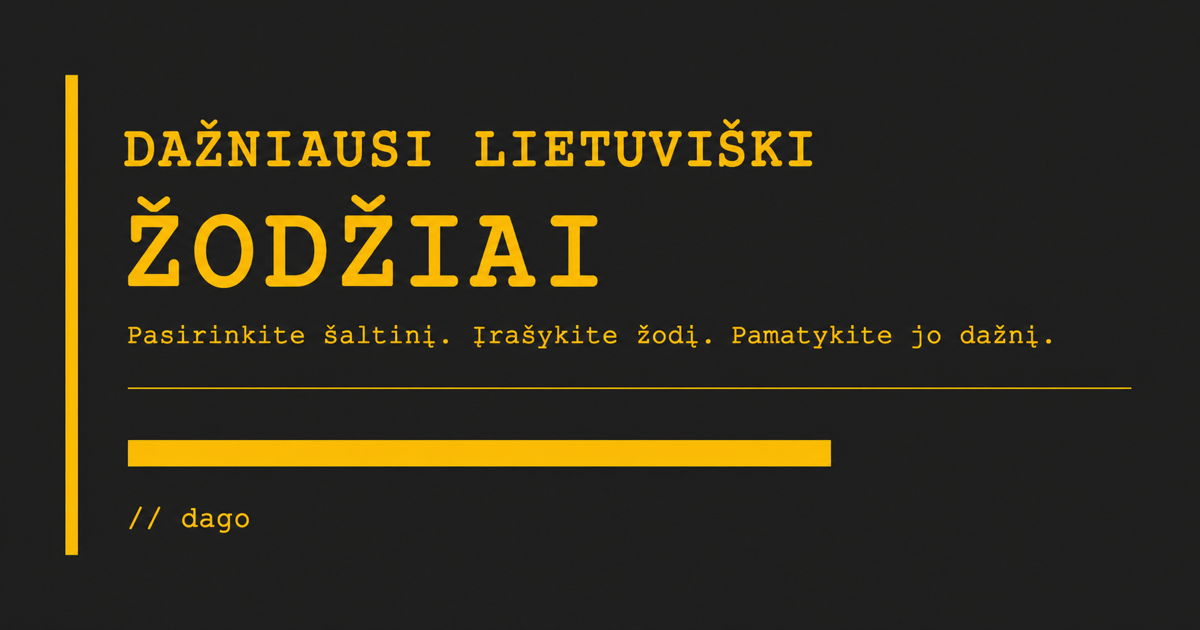
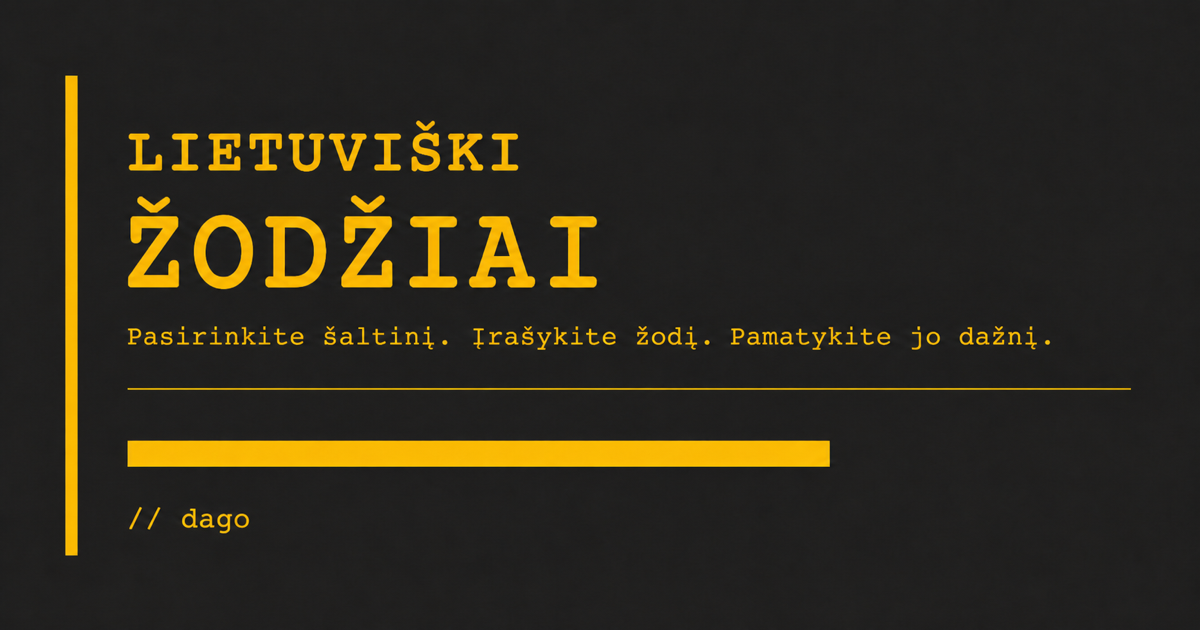
Rename project to Lietuviški žodžiai (#106)

diff --git a/src/routes/+page.svelte b/src/routes/+page.svelte
@@ -58,12 +58,12 @@
   <meta property="og:image" content={site.socialImageUrl} />
   <meta property="og:image:width" content="1200" />
   <meta property="og:image:height" content="630" />
-  <meta property="og:image:alt" content="Dažniausi lietuviški žodžiai – viešų lietuvių kalbos dažnumo sąrašų tyrinėjimas" />
+  <meta property="og:image:alt" content="Lietuviški žodžiai – viešų lietuvių kalbos dažnumo sąrašų tyrinėjimas" />
   <meta name="twitter:card" content="summary_large_image" />
   <meta name="twitter:title" content={`${site.name} · lietuvių kalbos dažnumo duomenys`} />
   <meta name="twitter:description" content={site.description} />
   <meta name="twitter:image" content={site.socialImageUrl} />
-  <meta name="twitter:image:alt" content="Dažniausi lietuviški žodžiai – viešų lietuvių kalbos dažnumo sąrašų tyrinėjimas" />
+  <meta name="twitter:image:alt" content="Lietuviški žodžiai – viešų lietuvių kalbos dažnumo sąrašų tyrinėjimas" />
 </svelte:head>
 
 <main class="home-page">

diff --git a/tests/unit/project-hygiene.test.js b/tests/unit/project-hygiene.test.js
@@ -68,7 +68,7 @@ describe('project hygiene', () => {
 			expect.objectContaining({
 				id: 'tilde-2026-parallel-and-monolingual-corpora',
 				status: 'blocked-external',
-				trackingIssue: 'https://github.com/debesyla/dazniausi-zodziai/issues/63',
+				trackingIssue: 'https://github.com/debesyla/lietuviski-zodziai/issues/63',
 				rawImportAuthorized: false,
 				publicProductAuthorized: false
 			})
@@ -87,7 +87,7 @@ describe('project hygiene', () => {
 			]);
 			expect(candidate.id).toMatch(/^[a-z0-9][a-z0-9-]+$/);
 			expect(candidate.sourceUrl).toMatch(/^https:\/\/clarin-repo\.lt\/items\/[a-f0-9-]+$/);
-			expect(candidate.trackingIssue).toMatch(/^https:\/\/github\.com\/debesyla\/dazniausi-zodziai\/issues\/\d+$/);
+			expect(candidate.trackingIssue).toMatch(/^https:\/\/github\.com\/debesyla\/lietuviski-zodziai\/issues\/\d+$/);
 			expect(candidate.licence).toEqual(expect.any(String));
 			expect(candidate.licence.length).toBeGreaterThan(0);
 			expect(candidate.status).toBe('blocked-external');

diff --git a/src/routes/duomenu-katalogas/+page.svelte b/src/routes/duomenu-katalogas/+page.svelte
@@ -213,10 +213,10 @@
 </script>
 
 <svelte:head>
-  <title>Viešų duomenų katalogas · Dažniausi lietuviški žodžiai</title>
+  <title>Viešų duomenų katalogas · Lietuviški žodžiai</title>
   <meta name="description" content="Naršykite visus viešus lietuvių kalbos duomenų produktus: jų šaltinio apimtį, licenciją, prieigą ir interpretavimo ribas." />
   <link rel="canonical" href={site.catalogueUrl} />
-  <meta property="og:title" content="Viešų duomenų katalogas · Dažniausi lietuviški žodžiai" />
+  <meta property="og:title" content="Viešų duomenų katalogas · Lietuviški žodžiai" />
   <meta property="og:description" content="Viešų lietuvių kalbos duomenų produktų apimtis, licencijos, prieiga ir ribos vienoje vietoje." />
   <meta property="og:url" content={site.catalogueUrl} />
 </svelte:head>

diff --git a/src/routes/apie/+page.svelte b/src/routes/apie/+page.svelte
@@ -55,10 +55,10 @@
 </script>
 
 <svelte:head>
-  <title>Metodika ir šaltiniai · Dažniausi lietuviški žodžiai</title>
+  <title>Metodika ir šaltiniai · Lietuviški žodžiai</title>
   <meta name="description" content="Sužinokite, iš kokių viešų šaltinių sudaryti šios svetainės lietuvių kalbos duomenys, kokios jų licencijos ir kaip skaityti rodiklius." />
   <link rel="canonical" href={site.methodologyUrl} />
-  <meta property="og:title" content="Metodika ir šaltiniai · Dažniausi lietuviški žodžiai" />
+  <meta property="og:title" content="Metodika ir šaltiniai · Lietuviški žodžiai" />
   <meta property="og:description" content="Viešų lietuvių kalbos duomenų šaltiniai, licencijos, ribos ir rodiklių paaiškinimas." />
   <meta property="og:url" content={site.methodologyUrl} />
 </svelte:head>

diff --git a/tests/unit/routes/page.test.js b/tests/unit/routes/page.test.js
@@ -56,7 +56,7 @@ describe('Page', () => {
   it('publishes a specific, canonical Lithuanian discovery preview', () => {
     render(Page);
 
-    expect(document.title).toBe('Dažniausi lietuviški žodžiai · lietuvių kalbos dažnumo duomenys');
+    expect(document.title).toBe('Lietuviški žodžiai · lietuvių kalbos dažnumo duomenys');
     expect(document.head.querySelector('meta[name="description"]')).toHaveAttribute(
       'content',
       'Naršykite viešus lietuvių kalbos lemų ir žodžių formų dažnumo sąrašus: ieškokite, filtruokite, analizuokite rodiklius ir atsisiųskite duomenis su jų šaltiniais.'

diff --git a/tests/unit/blkt-profile-script.test.js b/tests/unit/blkt-profile-script.test.js
@@ -244,7 +244,7 @@ function canonicalSummary(tsv) {
 }
 
 async function createFixture() {
-  const createdRoot = await mkdtemp(path.join(os.tmpdir(), 'dazniausi-zodziai-blkt-profile-script-'));
+  const createdRoot = await mkdtemp(path.join(os.tmpdir(), 'lietuviski-zodziai-blkt-profile-script-'));
   const root = await realpath(createdRoot);
   temporaryDirectories.push(root);
   const outputDirectory = path.join(root, 'output');

diff --git a/tests/unit/blkt-disclosure.test.js b/tests/unit/blkt-disclosure.test.js
@@ -264,7 +264,7 @@ function productPaths(root) {
 }
 
 async function buildFixture() {
-  const root = await mkdtemp(path.join(os.tmpdir(), 'dazniausi-zodziai-blkt-disclosure-'));
+  const root = await mkdtemp(path.join(os.tmpdir(), 'lietuviski-zodziai-blkt-disclosure-'));
   temporaryDirectories.push(root);
   const paths = productPaths(root);
   const policyPath = path.join(root, 'data', 'policies', 'blkt-disclosure.json');

diff --git a/src/lib/translations.ts b/src/lib/translations.ts
@@ -88,7 +88,7 @@ export const translations = {
     posCompositionDescription: 'Žetonų dažnumo dalis pagal šaltinio pateiktas kalbos dalių žymas.',
     
     // Main page
-    pageTitle: 'Dažniausi lietuviški žodžiai',
+    pageTitle: 'Lietuviški žodžiai',
     exploreData: 'Tyrinėti duomenis',
     dataProductsCatalogue: 'Duomenų katalogas',
     methodologyAndSources: 'Metodika ir šaltiniai',

diff --git a/tests/unit/source-artifacts.test.js b/tests/unit/source-artifacts.test.js
@@ -8,7 +8,7 @@ import { createSourceArtifactResolver } from '../../scripts/source-artifacts.mjs
 const temporaryDirectories = [];
 
 async function makeDirectory() {
-  const directory = await mkdtemp(path.join(os.tmpdir(), 'dazniausi-zodziai-artifact-'));
+  const directory = await mkdtemp(path.join(os.tmpdir(), 'lietuviski-zodziai-artifact-'));
   temporaryDirectories.push(directory);
   return directory;
 }

diff --git a/tests/unit/source-contracts.test.js b/tests/unit/source-contracts.test.js
@@ -8,7 +8,7 @@ import { verifySourceContracts } from '../../scripts/verify-source-contracts.mjs
 const temporaryDirectories = [];
 
 async function makeDirectory() {
-  const directory = await mkdtemp(path.join(os.tmpdir(), 'dazniausi-zodziai-contract-'));
+  const directory = await mkdtemp(path.join(os.tmpdir(), 'lietuviski-zodziai-contract-'));
   temporaryDirectories.push(directory);
   return directory;
 }

diff --git a/tests/unit/data-products.test.js b/tests/unit/data-products.test.js
@@ -9,7 +9,7 @@ import { verifyDataProducts } from '../../scripts/verify-data-products.mjs';
 const temporaryDirectories = [];
 
 async function makeDirectory() {
-  const directory = await mkdtemp(path.join(os.tmpdir(), 'dazniausi-zodziai-products-'));
+  const directory = await mkdtemp(path.join(os.tmpdir(), 'lietuviski-zodziai-products-'));
   temporaryDirectories.push(directory);
   return directory;
 }

diff --git a/tests/unit/blkt-data-product.test.js b/tests/unit/blkt-data-product.test.js
@@ -71,7 +71,7 @@ const FILE_NOTICE = {
 const temporaryDirectories = [];
 
 async function makeDirectory() {
-  const directory = await mkdtemp(path.join(os.tmpdir(), 'dazniausi-zodziai-blkt-product-'));
+  const directory = await mkdtemp(path.join(os.tmpdir(), 'lietuviski-zodziai-blkt-product-'));
   temporaryDirectories.push(directory);
   return directory;
 }
